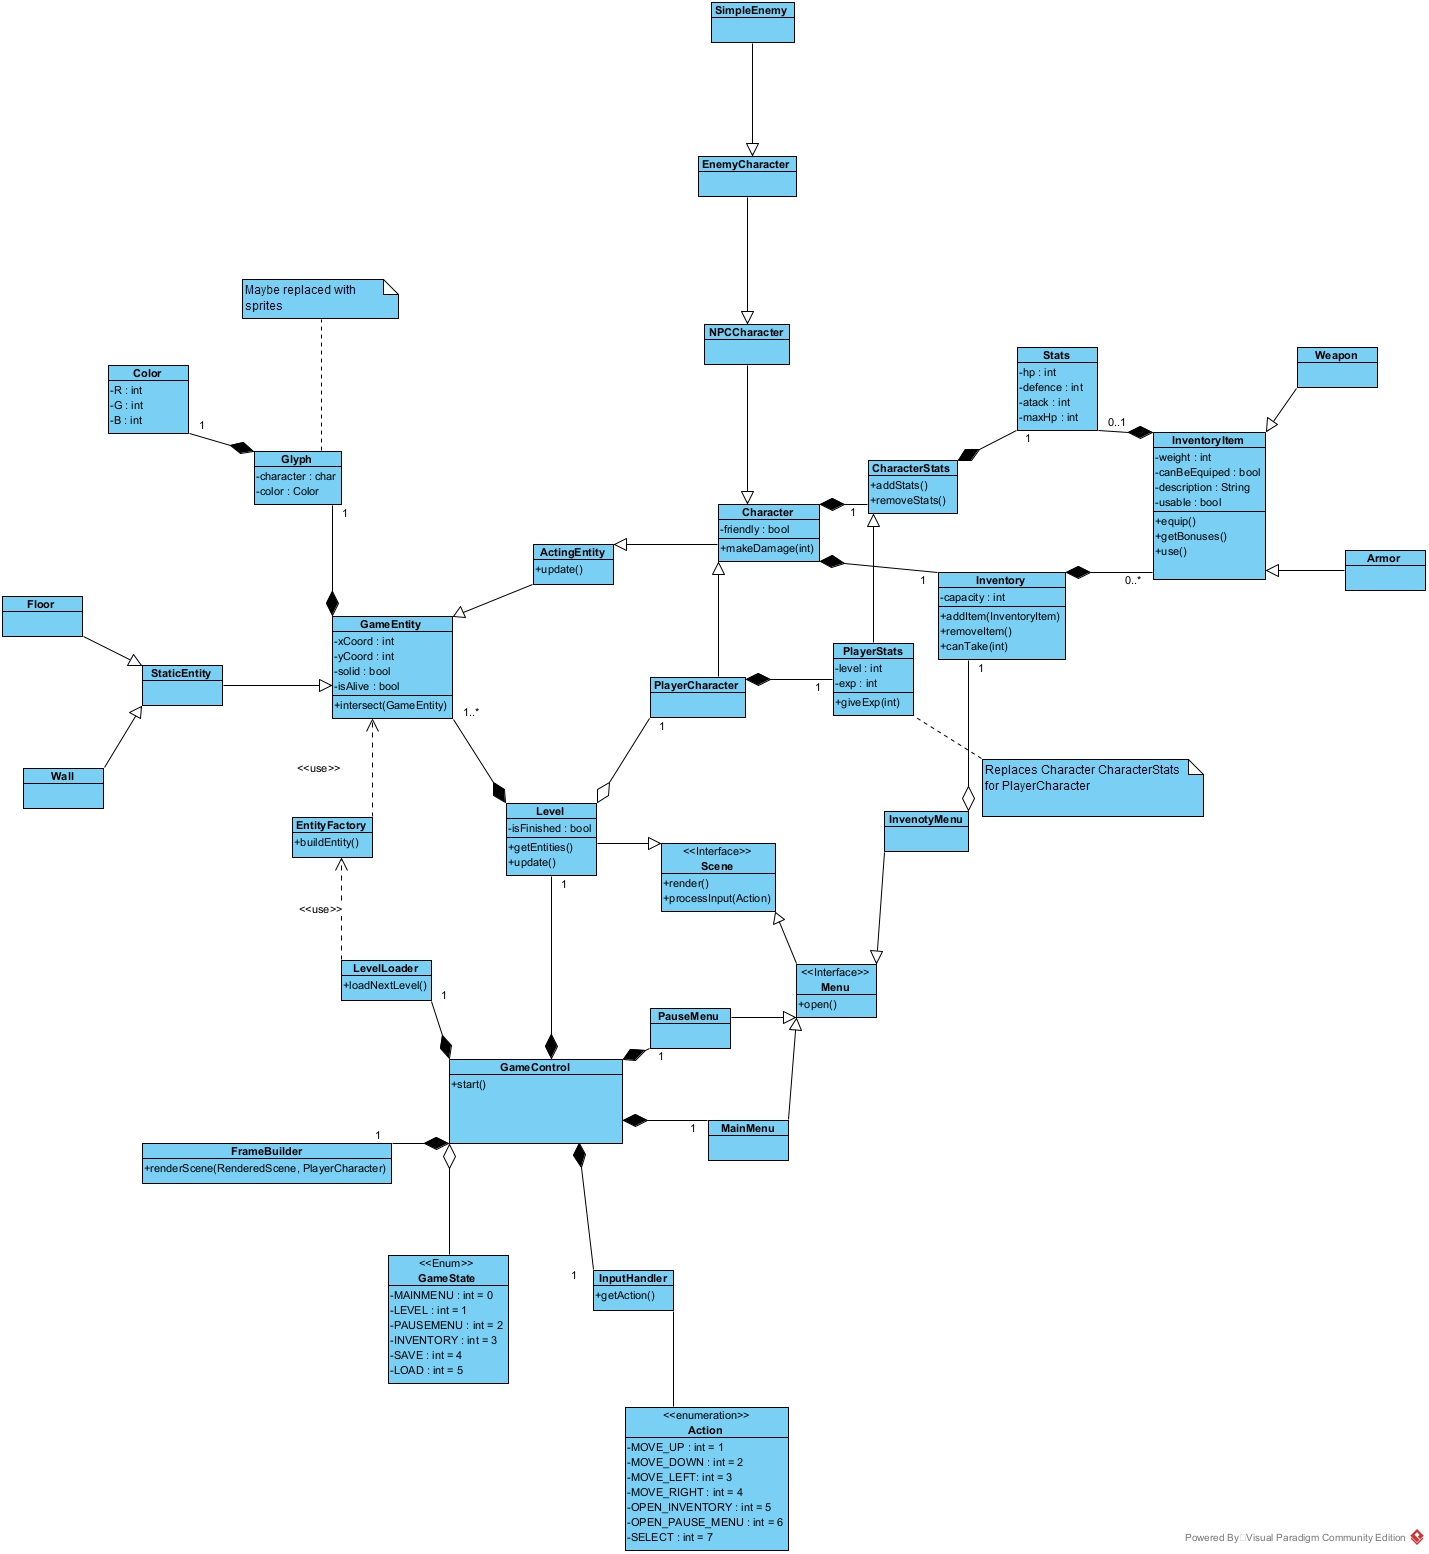
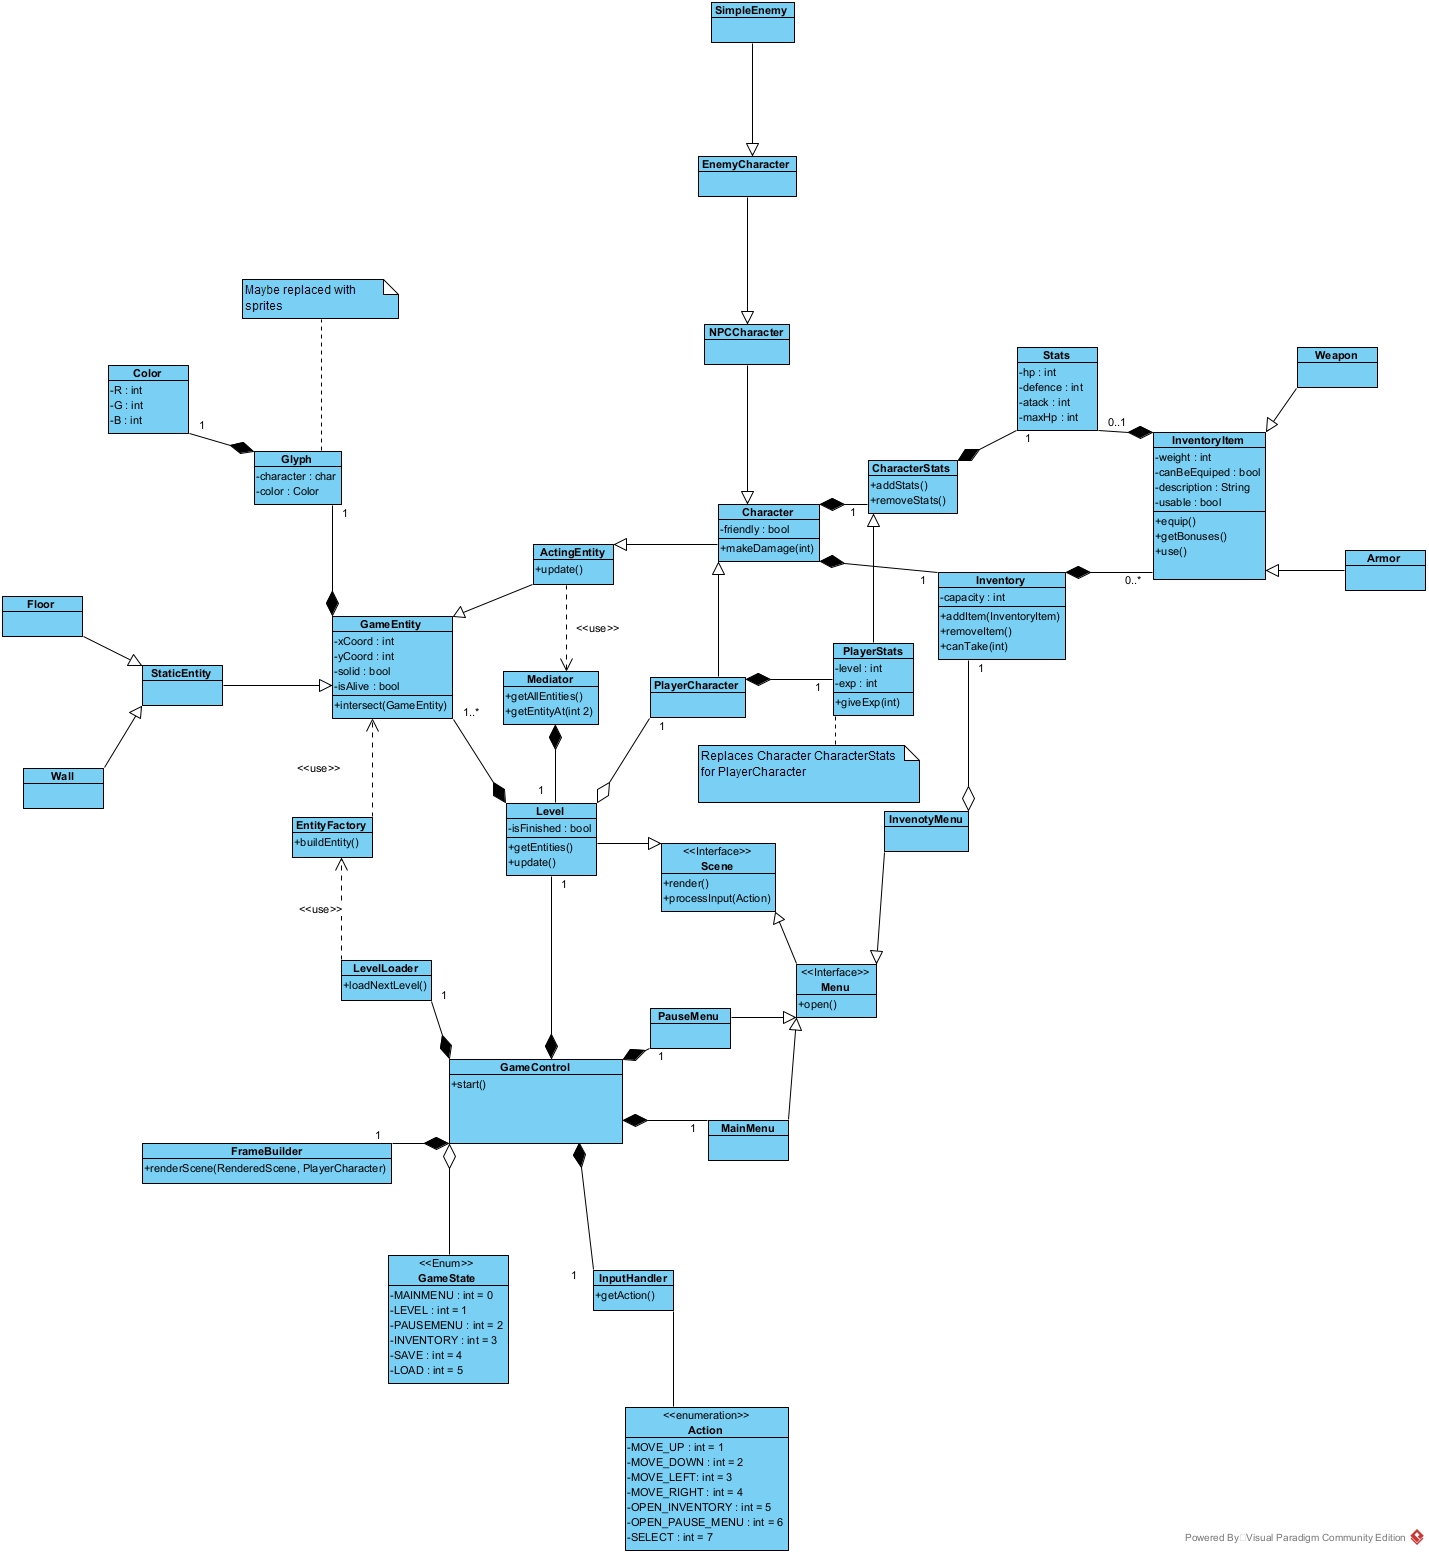
Small change

Changed region(s): [[0.6774, 0.4633, 0.8621, 0.5251], [0.4927, 0.4633, 0.6466, 0.5251], [0.3387, 0.4324, 0.4311, 0.4942]]

diff --git a/Roguelike/ARCHITECTURE.md b/Roguelike/ARCHITECTURE.md
@@ -152,7 +152,7 @@ RGB представление цвета.
 
 ### ActingEntity
 Наследник `GameEntity`, является родительским классом для сущностей, которые могу действовать. Имеют метод `update`, 
-который срабатывает на каждом обновлении кадра.
+который срабатывает на каждом обновлении кадра. Обращается к объекту `Mediator` для взаимодействия с объектом уровня `Level`.
 
 ### Character 
 Наследник `ActingEntity`, представляет из себя персонажей игры. Содержит статистики персонажа `CharacterStats`, 
@@ -182,6 +182,9 @@ RGB представление цвета.
 
 ### LevelLoader
 Умеет грузить следующий по запросу.
+
+### Mediator
+Посредник, повзоляющий действующим сущностям `ActingEntity` получать информацию о другиъ сущностях, которые находятся на уровне.
 
 ### FrameBuilder
 Класс отвечающий за отрисовку сцены. Пока никаких подробностей нет, т.к. зависит от выбранной библиотеки.
